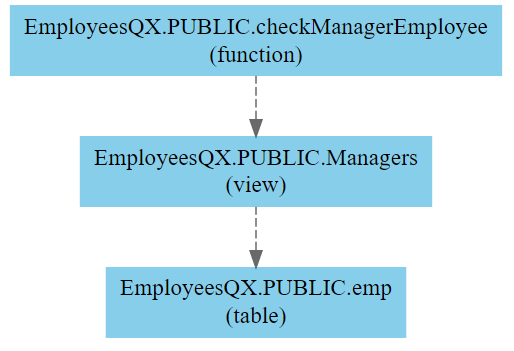
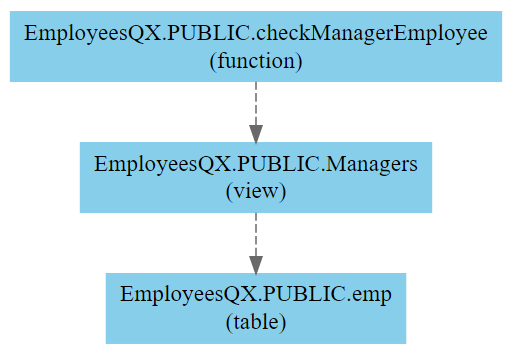
output files and new images

diff --git a/output/wwa43176.html b/output/wwa43176.html
@@ -1,0 +1,56 @@
+<!DOCTYPE html>
+<meta charset="utf-8">
+<body><script src="https://d3js.org/d3.v5.min.js"></script>
+<script src="https://unpkg.com/@hpcc-js/wasm@0.3.11/dist/index.min.js"></script>
+<script src="https://unpkg.com/d3-graphviz@3.0.5/build/d3-graphviz.js"></script>
+<div id="graph" style="text-align: center;"></div>
+<script>
+var graphviz = d3.select("#graph").graphviz()
+   .on("initEnd", () => { graphviz.renderDot(d3.select("#digraph").text()); });
+</script>
+<div id="digraph" style="display:none;">
+digraph G {
+
+  graph [ rankdir="LR" bgcolor="#ffffff" ]
+  node [ style="filled" shape="record" color="SkyBlue" ]
+  edge [ penwidth="1" color="#696969" dir="forward" ]
+
+  "EmployeesQX.PUBLIC.emp\n(table)";
+  "EmployeesQX.PUBLIC.Materialized\n(materialized view)";
+  "ALICE_DB.PUBLIC.ALICE_TABLE\n(table)";
+  "ALICE_DB.PUBLIC.ALICE_VIEW\n(view)";
+  "ALICE_DB.DATA.ALICE_TABLE\n(table)";
+  "ALICE_DB.DATA.ALICE_VIEW\n(view)";
+  "MATCHES.PUBLIC.CUSTOMERS\n(table)";
+  "MATCHES.PUBLIC.CUSTOMERS_VIEW\n(view)";
+  "MATCHES.PUBLIC.ASSOCIATES\n(table)";
+  "MATCHES.PUBLIC.ASSOCIATES_VIEW\n(view)";
+  "EmployeesQX.PUBLIC.Managers\n(view)";
+  "ALICE_DB.PUBLIC.ALICE_VIEW_F\n(function)";
+  "ALICE_DB.DATA.ALICE_VIEW_F\n(function)";
+  "NBA_CONSUMER.PUBLIC.AMRP\n(table)";
+  "NBA_CONSUMER.PUBLIC.GET_NAMES_IN_COMMON\n(function)";
+  "DB_A.PUBLIC.VIEW_A\n(view)";
+  "DB_A.PUBLIC.FUNC_A\n(function)";
+  "EmployeesQX.PUBLIC.checkManagerEmployee\n(function)";
+  "EmployeesQX.PUBLIC.proj\n(table)";
+  "EmployeesQX.PUBLIC.count_emp_in_proj\n(function)";
+  "CDC_DEMO.PUBLIC.FRUITS_STAGE\n(table)";
+  "CDC_DEMO.PUBLIC.FRUITS_STAGE_STREAM\n(stream)";
+
+  "EmployeesQX.PUBLIC.Materialized\n(materialized view)" -> "EmployeesQX.PUBLIC.emp\n(table)" [ style="solid" ];
+  "ALICE_DB.PUBLIC.ALICE_VIEW\n(view)" -> "ALICE_DB.PUBLIC.ALICE_TABLE\n(table)" [ style="dashed" ];
+  "ALICE_DB.DATA.ALICE_VIEW\n(view)" -> "ALICE_DB.DATA.ALICE_TABLE\n(table)" [ style="dashed" ];
+  "MATCHES.PUBLIC.CUSTOMERS_VIEW\n(view)" -> "MATCHES.PUBLIC.CUSTOMERS\n(table)" [ style="dashed" ];
+  "MATCHES.PUBLIC.ASSOCIATES_VIEW\n(view)" -> "MATCHES.PUBLIC.ASSOCIATES\n(table)" [ style="dashed" ];
+  "EmployeesQX.PUBLIC.Managers\n(view)" -> "EmployeesQX.PUBLIC.emp\n(table)" [ style="dashed" ];
+  "ALICE_DB.PUBLIC.ALICE_VIEW_F\n(function)" -> "ALICE_DB.PUBLIC.ALICE_TABLE\n(table)" [ style="dashed" ];
+  "ALICE_DB.DATA.ALICE_VIEW_F\n(function)" -> "ALICE_DB.DATA.ALICE_VIEW\n(view)" [ style="dashed" ];
+  "NBA_CONSUMER.PUBLIC.GET_NAMES_IN_COMMON\n(function)" -> "NBA_CONSUMER.PUBLIC.AMRP\n(table)" [ style="dashed" ];
+  "DB_A.PUBLIC.FUNC_A\n(function)" -> "DB_A.PUBLIC.VIEW_A\n(view)" [ style="dashed" ];
+  "EmployeesQX.PUBLIC.checkManagerEmployee\n(function)" -> "EmployeesQX.PUBLIC.Managers\n(view)" [ style="dashed" ];
+  "EmployeesQX.PUBLIC.count_emp_in_proj\n(function)" -> "EmployeesQX.PUBLIC.proj\n(table)" [ style="dashed" ];
+  "EmployeesQX.PUBLIC.count_emp_in_proj\n(function)" -> "EmployeesQX.PUBLIC.emp\n(table)" [ style="dashed" ];
+  "CDC_DEMO.PUBLIC.FRUITS_STAGE_STREAM\n(stream)" -> "CDC_DEMO.PUBLIC.FRUITS_STAGE\n(table)" [ style="dotted" ];
+}
+</div>

diff --git a/output/wwa43176-EmployeesQX.html b/output/wwa43176-EmployeesQX.html
@@ -1,0 +1,31 @@
+<!DOCTYPE html>
+<meta charset="utf-8">
+<body><script src="https://d3js.org/d3.v5.min.js"></script>
+<script src="https://unpkg.com/@hpcc-js/wasm@0.3.11/dist/index.min.js"></script>
+<script src="https://unpkg.com/d3-graphviz@3.0.5/build/d3-graphviz.js"></script>
+<div id="graph" style="text-align: center;"></div>
+<script>
+var graphviz = d3.select("#graph").graphviz()
+   .on("initEnd", () => { graphviz.renderDot(d3.select("#digraph").text()); });
+</script>
+<div id="digraph" style="display:none;">
+digraph G {
+
+  graph [ rankdir="LR" bgcolor="#ffffff" ]
+  node [ style="filled" shape="record" color="SkyBlue" ]
+  edge [ penwidth="1" color="#696969" dir="forward" ]
+
+  "PUBLIC.emp\n(table)";
+  "PUBLIC.Materialized\n(materialized view)";
+  "PUBLIC.Managers\n(view)";
+  "PUBLIC.checkManagerEmployee\n(function)";
+  "PUBLIC.proj\n(table)";
+  "PUBLIC.count_emp_in_proj\n(function)";
+
+  "PUBLIC.Materialized\n(materialized view)" -> "PUBLIC.emp\n(table)" [ style="solid" ];
+  "PUBLIC.Managers\n(view)" -> "PUBLIC.emp\n(table)" [ style="dashed" ];
+  "PUBLIC.checkManagerEmployee\n(function)" -> "PUBLIC.Managers\n(view)" [ style="dashed" ];
+  "PUBLIC.count_emp_in_proj\n(function)" -> "PUBLIC.proj\n(table)" [ style="dashed" ];
+  "PUBLIC.count_emp_in_proj\n(function)" -> "PUBLIC.emp\n(table)" [ style="dashed" ];
+}
+</div>

diff --git a/output/wwa43176-EmployeesQX.PUBLIC.html b/output/wwa43176-EmployeesQX.PUBLIC.html
@@ -1,0 +1,31 @@
+<!DOCTYPE html>
+<meta charset="utf-8">
+<body><script src="https://d3js.org/d3.v5.min.js"></script>
+<script src="https://unpkg.com/@hpcc-js/wasm@0.3.11/dist/index.min.js"></script>
+<script src="https://unpkg.com/d3-graphviz@3.0.5/build/d3-graphviz.js"></script>
+<div id="graph" style="text-align: center;"></div>
+<script>
+var graphviz = d3.select("#graph").graphviz()
+   .on("initEnd", () => { graphviz.renderDot(d3.select("#digraph").text()); });
+</script>
+<div id="digraph" style="display:none;">
+digraph G {
+
+  graph [ rankdir="LR" bgcolor="#ffffff" ]
+  node [ style="filled" shape="record" color="SkyBlue" ]
+  edge [ penwidth="1" color="#696969" dir="forward" ]
+
+  "emp\n(table)";
+  "Materialized\n(materialized view)";
+  "Managers\n(view)";
+  "checkManagerEmployee\n(function)";
+  "proj\n(table)";
+  "count_emp_in_proj\n(function)";
+
+  "Materialized\n(materialized view)" -> "emp\n(table)" [ style="solid" ];
+  "Managers\n(view)" -> "emp\n(table)" [ style="dashed" ];
+  "checkManagerEmployee\n(function)" -> "Managers\n(view)" [ style="dashed" ];
+  "count_emp_in_proj\n(function)" -> "proj\n(table)" [ style="dashed" ];
+  "count_emp_in_proj\n(function)" -> "emp\n(table)" [ style="dashed" ];
+}
+</div>

diff --git a/output/wwa43176-EmployeesQX.PUBLIC.checkManagerEmployee.html b/output/wwa43176-EmployeesQX.PUBLIC.checkManagerEmployee.html
@@ -1,0 +1,25 @@
+<!DOCTYPE html>
+<meta charset="utf-8">
+<body><script src="https://d3js.org/d3.v5.min.js"></script>
+<script src="https://unpkg.com/@hpcc-js/wasm@0.3.11/dist/index.min.js"></script>
+<script src="https://unpkg.com/d3-graphviz@3.0.5/build/d3-graphviz.js"></script>
+<div id="graph" style="text-align: center;"></div>
+<script>
+var graphviz = d3.select("#graph").graphviz()
+   .on("initEnd", () => { graphviz.renderDot(d3.select("#digraph").text()); });
+</script>
+<div id="digraph" style="display:none;">
+digraph G {
+
+  graph [ bgcolor="#ffffff" ]
+  node [ style="filled" shape="record" color="SkyBlue" ]
+  edge [ penwidth="1" color="#696969" dir="forward" ]
+
+  "EmployeesQX.PUBLIC.Managers\n(view)";
+  "EmployeesQX.PUBLIC.checkManagerEmployee\n(function)";
+  "EmployeesQX.PUBLIC.emp\n(table)";
+
+  "EmployeesQX.PUBLIC.checkManagerEmployee\n(function)" -> "EmployeesQX.PUBLIC.Managers\n(view)" [ style="dashed" ];
+  "EmployeesQX.PUBLIC.Managers\n(view)" -> "EmployeesQX.PUBLIC.emp\n(table)" [ style="dashed" ];
+}
+</div>
